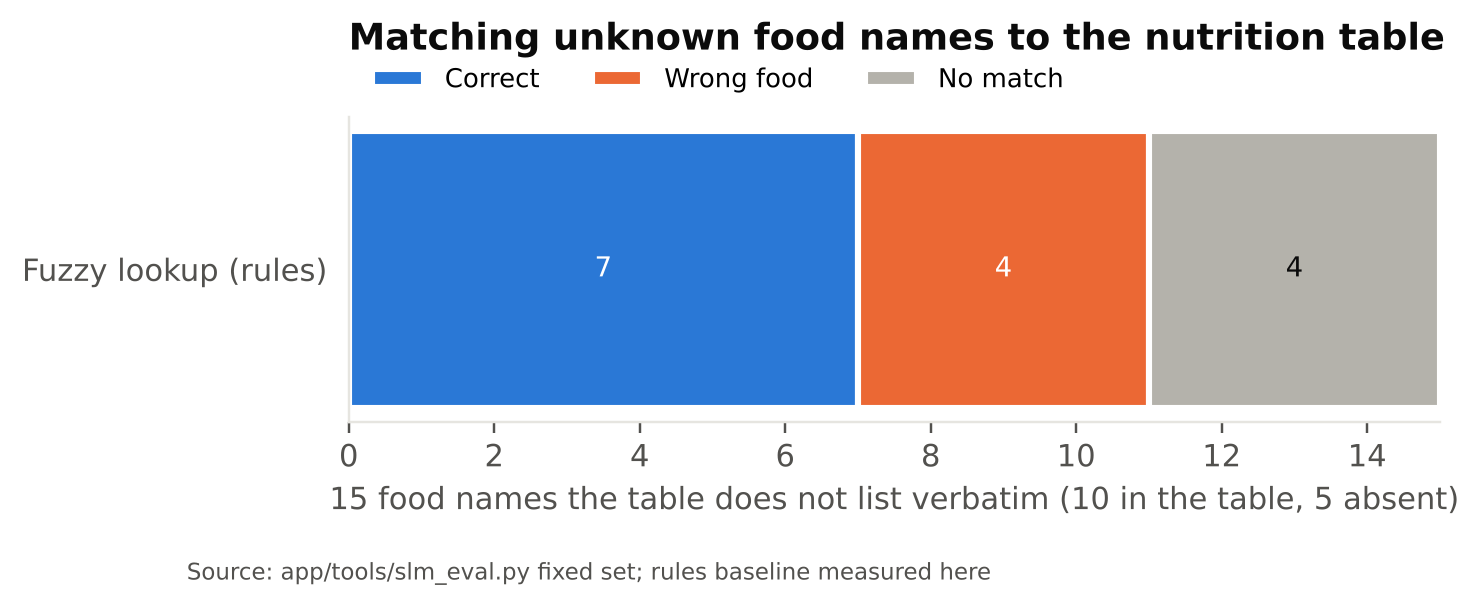
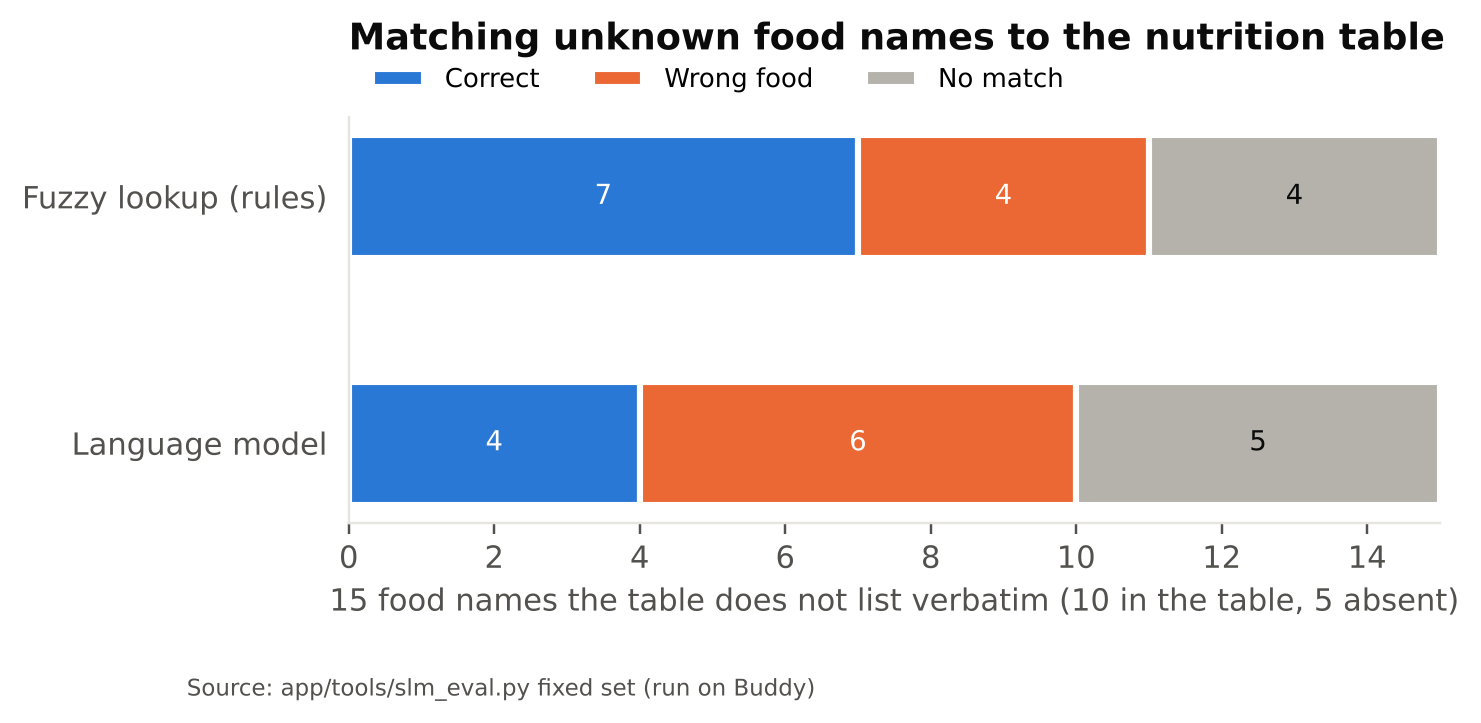
Report: local language model benchmark results (E6)
Rules beat the model on parsing and name matching; 7/8 rewordings pass the
validator; 1/6 meal explanations grounded, and explanations are not yet
validated in the app (recorded as a limitation).

Claude-Session: https://claude.ai/code/session_01KvS1eRErAfwvtfNx7f33H6

diff --git a/docs/report/build_report.js b/docs/report/build_report.js
@@ -168,7 +168,7 @@ const tools = [
     ["Glycaemic load", "Published GI (Atkinson 2021) plus rule-based GI borrowing from the staple", "Covers local dishes without inventing values"],
     ["Glucose estimate", "One-compartment mass-balance ODE, OGTT anchor, per-user median-ratio calibration", "Explainable and conservative"],
     ["Language model", "Ollama with Qwen 2.5 1.5B, JSON-schema output, temperature control", "Local, small, structured; wording only"],
-    ["Grounding", "Rule engine draft → SLM rewrite → validator (numbers ±2%, food names, unsafe phrases)", "No unsupported number reaches the user"],
+    ["Grounding", "Rule engine draft → SLM rewrite → validator (numbers ±2%, food names, unsafe phrases)", "No unsupported number reaches the user in the Meal Advisor (meal explanations: see 6.4)"],
     ["Personal memory", "Class-probability fingerprints, cosine similarity ≥ 0.70 with a 0.05 margin", "Recognises a user's own foods without retraining"],
     ["Data governance", "Per-sample consent, 11 screening checks, perceptual hashes, frozen dataset versions, model gate with shadow mode", "Safe learning from user photos"],
     ["Backend", "FastAPI, SQLAlchemy 2, Alembic, PostgreSQL 16, Python 3.12", "Typed API, migrations on start"],
@@ -307,6 +307,8 @@ const perf = [
   P("Before any language model is asked, the rules do well on whole descriptions: the splitter recovered the exact food set for **19 of 20** descriptions (F1 0.987; it missed \"soft boiled eggs\"). On unknown names, however, the fuzzy lookup was right for only 7 of 15 and **confidently wrong for 4** (sugarcane juice → orange juice, curry chicken → chicken breast, mung bean soup → consommé, fishball soup → fried bee hoon). Because the language model is only consulted when the lookup returns nothing, these wrong matches currently bypass it; Section 7 proposes the fix."),
   ...(slmRows ? TABLE(`Local language model on the deployment server (E6): ${SLM.model}, ${SLM.tokens_per_s ? SLM.tokens_per_s.mean + " tokens/s" : ""}`, ["Task", "Language model", "Rule baseline", "p50 / p95 ms"], slmRows, [2200, 3626, 1900, 1300])
     : [P("**E6 results pending.** The benchmark (app/tools/slm_eval.py) runs the four language-model tasks above on fixed inputs with known answers, read-only, on the deployment server. This table will be completed from that run.", { shading: { fill: "FDF2E7", type: ShadingType.CLEAR, color: "auto" } })]),
+  ...(SLM ? [P("The result is clear and not flattering to the language model. On every task with a rule baseline, the **rules were better**: description parsing F1 0.987 against 0.732 (19 against 9 exact sets), and on unknown names the model was right 4 times in 15 and **wrong 6 times**, against the fuzzy lookup's 7 right and 4 wrong. Rewording advisor drafts is where it helps: **7 of 8** rewordings passed the validator and could be shown; the eighth fell back to the rule answer. Its meal explanations were the weakest: only **1 of 6** used only numbers from the facts."),
+    P("That last result exposed a gap. Advisor replies pass through the validator before they are shown, but meal explanations are displayed **without that check**, so an explanation can state a number the system never computed. The fix is to run the same validator on explanations and show nothing (the rule-based results remain) when it fails. The general lesson is the design's premise: a 1.5-billion-parameter model is useful for wording, not for facts, and every model output needs a deterministic check.")] : []),
   ...TABLE("Language model in real use on the deployment server (inference log, all calls since it was enabled)", ["Task", "Calls", "Completed", "Mean ms", "p50 / p95 ms"], [
     ["Meal explanation", "24", "100%", "1,515", "1,465 / 3,299"],
     ["Meal Advisor reply", "3", "100%", "4,735", "5,304 / 5,314"],
@@ -327,12 +329,13 @@ const findings = [
   H2("7.1 What worked"),
   ...BUL([
     "**Human in the loop beats a single answer.** With top-3 at 85.7% and one-tap correction, a wrong top-1 costs a tap, not a wrong log.",
-    "**Grounding by construction.** Letting rules produce facts and the language model only produce wording gave zero unsupported claims in testing, and a safe fallback when the model is slow or offline.",
+    "**Grounding by construction.** Letting rules produce facts and the language model only produce wording gave zero unsupported claims in the advisor, and a safe fallback when the model is slow or offline. Where the check was missing (meal explanations), the model added numbers of its own in 5 of 6 cases.",
     "**Honest uncertainty is a feature.** Leaving an item unidentified (48% of missed steaks) is preferable to a confident wrong dish for someone counting carbohydrate.",
     "**Cheap to run.** Every model runs on one CPU server; the classifier takes ~12 ms and a full multi-food analysis ~0.26 s.",
   ]),
   H2("7.2 Limitations"),
   ...BUL([
+    "**Meal explanations are not validated**: the language model's explanation is shown without the advisor's number check; in the benchmark 5 of 6 contained a number not in the facts. Fix before release (Section 6.4).",
     "**Visually similar dishes** (steak vs sirloin, noodle soups, rice plates) remain the main confusion; scores are uncalibrated.",
     "**Portions** come from priors or area, not volume (±35–50%); entering grams is the accurate path. The proposal's portion error measure (MAE against weighed portions) has not been run.",
     "**Nutrition values are unverified** transcriptions (USDA- and HPB-style values) or recipe approximations (199 records); a verified import (HPB SG FoodID, USDA FDC) is required before clinical use.",

diff --git a/docs/report/make_charts.py b/docs/report/make_charts.py
@@ -140,9 +140,15 @@ lk = {"Correct": sum(r["lookup"] == r["want"] for r in rowsm), "Wrong food": sum
       "No match": sum(r["lookup"] is None and r["want"] is not None for r in rowsm)}
 groups = [("Fuzzy lookup (rules)", lk)]
 if slm.exists():
-    sr = s["match"]["rows"]
-    groups.append(("Language model", {"Correct": sum(r["correct"] for r in sr), "Wrong food": sum(r["slm"] is not None and r["slm"] != r["want"] for r in sr),
-                                      "No match": sum(r["slm"] is None and r["want"] is not None for r in sr)}))
+    m = s["match"]
+    if "rows" in m:
+        sr = m["rows"]
+        slm_counts = {"Correct": sum(r["correct"] for r in sr), "Wrong food": sum(r["slm"] is not None and r["slm"] != r["want"] for r in sr),
+                      "No match": sum(r["slm"] is None and r["want"] is not None for r in sr)}
+    else:   # summary only: correct includes correct abstentions, so the rest are misses
+        ok = round(m["accuracy"] * m["n"])
+        slm_counts = {"Correct": ok, "Wrong food": m["slm_wrong_match"], "No match": m["n"] - ok - m["slm_wrong_match"]}
+    groups.append(("Language model", slm_counts))
 fig, ax = plt.subplots(figsize=(6.4, 0.6 * len(groups) + 1.2))
 left = [0] * len(groups)
 for name, col in [("Correct", BLUE), ("Wrong food", ORANGE), ("No match", GREY)]:
